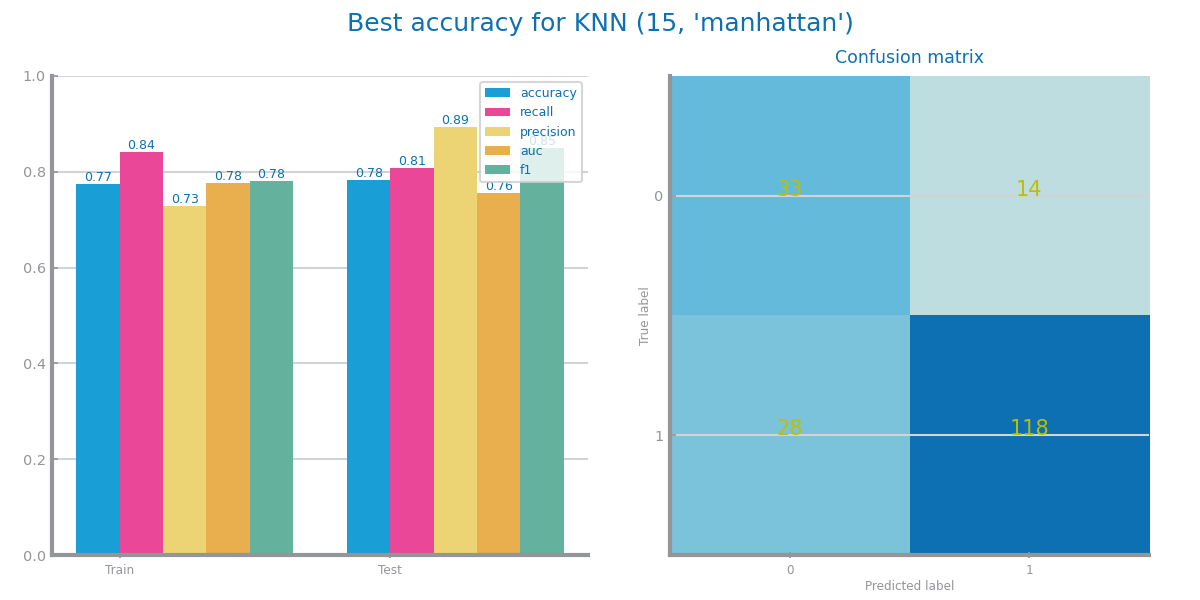
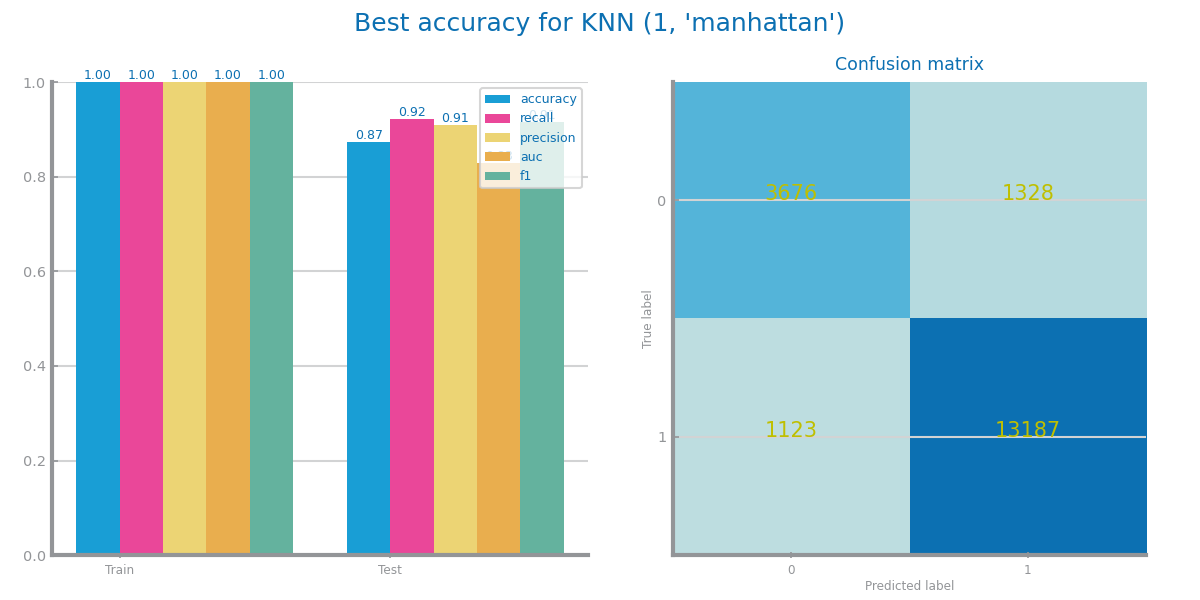
Removed useless raise exception.

diff --git a/classification/models/credit_score/knn.py b/classification/models/credit_score/knn.py
@@ -12,7 +12,7 @@ credit_score_file_tag: str = "class_credit_score"
 target = "Credit_Score"
 
 run_sampling = True
-sampling_amount = 0.01 if run_sampling else 1
+sampling_amount = 0.1 if run_sampling else 1
 
 trnX, tstX, trnY, tstY, labels, vars = read_train_test_from_files(train_filename, test_filename, target,
                                                                   sampling_amount)
